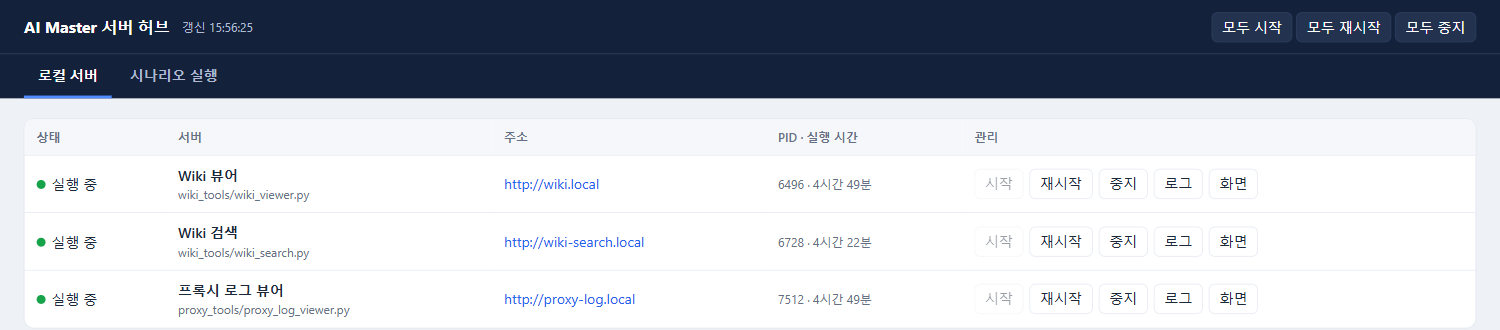
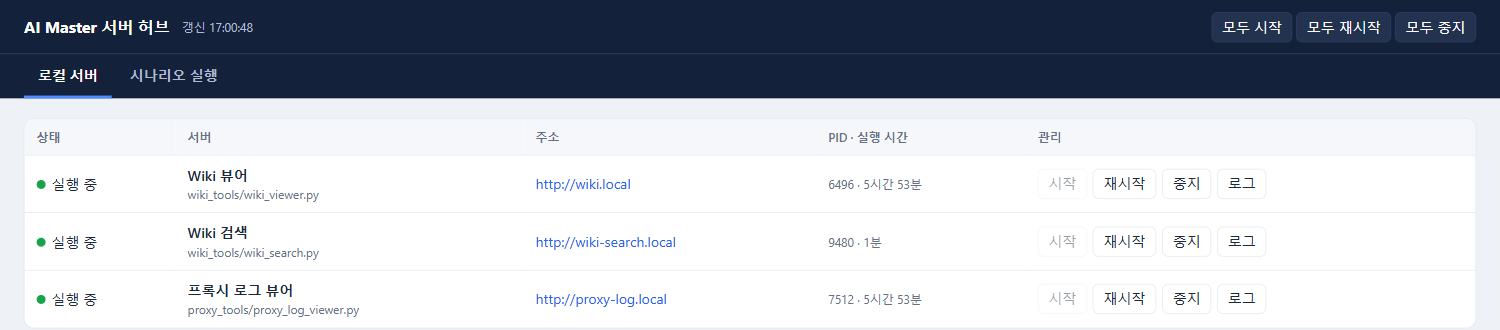
가이드 생성 중 진행 로그, 허브에서 보고 있는 로그 버튼 표시, 화면 버튼 제거
- common/trace.py: heartbeat() 추가. 오래 걸리는 노드가 도는 동안 5초마다 '↻ … 진행 중' 줄을 남김
- wiki_search.py: llm_generate 동안 진행 줄(LLM 응답 기다리는 중 / 받은 글자 수)
- 허브: 보고 있는 로그의 '로그' 버튼을 연한 파랑으로 표시(로컬 서버 탭·시나리오 실행 탭),
  '화면' 버튼 제거(주소를 누르면 새 창으로 열림)
- README·허브 캡처 갱신

diff --git a/hub.py b/hub.py
@@ -421,7 +421,8 @@ tr.sel td{background:var(--soft)}
 .title{font-weight:600}.script{color:var(--muted);font-size:12px}a{color:var(--blue);text-decoration:none}a:hover{text-decoration:underline}
 .warn{color:var(--bad);font-size:12px}.muted{color:var(--muted);font-size:12px}.acts{display:flex;gap:6px;flex-wrap:wrap}
 .tabs{display:flex;gap:4px;align-items:center;padding:8px 12px;border-bottom:1px solid var(--line);background:var(--soft)}
-.tabs button.on{background:var(--blue);border-color:var(--blue);color:#fff}.tabs .name{margin-left:8px;font-weight:600}
+.tabs button.on{background:var(--blue);border-color:var(--blue);color:#fff}
+button.logon{background:color-mix(in srgb,var(--blue) 14%,var(--panel));border-color:var(--blue);color:var(--blue);font-weight:700;box-shadow:inset 0 0 0 1px var(--blue)}.tabs .name{margin-left:8px;font-weight:600}
 pre{margin:0;background:var(--code);color:var(--codeink);padding:12px 14px;height:420px;overflow:auto;font:12px/1.5 Consolas,monospace;white-space:pre-wrap}
 .err{color:var(--bad);padding:12px}
 [hidden]{display:none!important}
@@ -451,13 +452,13 @@ nav.maintabs button.on{color:#fff;border-bottom-color:#4f8cff}
 <div class="scgrid">
 <div class="card sc"><h2>시나리오 1 · 프록시 설정 가이드 자동 생성</h2>
 <p>Wiki 검색 화면을 새 창으로 엽니다. 질의 입력·유형 선택·미리보기·수정 요청·Wiki 등록은 그 화면에서 합니다.</p>
-<div class="row"><button class="main" id="s1run" onclick="runS1()">실행 (Wiki 검색 화면 열기)</button><button onclick="showLog('wiki-search','시나리오 1 · Wiki 검색 서버 로그')">로그</button>
+<div class="row"><button class="main" id="s1run" onclick="runS1()">실행 (Wiki 검색 화면 열기)</button><button class="slog" data-key="wiki-search" onclick="showLog('wiki-search','시나리오 1 · Wiki 검색 서버 로그')">로그</button>
 <span class="jobstate" id="s1state"></span></div></div>
 <div class="card sc"><h2>시나리오 2 · 프록시 현황 Wiki 현행화</h2>
 <p>Wiki 현황 문서와 Azure VM을 비교하고, 차이가 있으면 Teams 승인 후 Task·Wiki를 반영합니다. 승인 카드는 Teams 일반 채널로 갑니다.</p>
 <div class="row"><button id="s2setup" onclick="runJob('scenario2-setup')" title="test/scenario2/setup_env.py: 꺼진 Proxy VM을 켜고, 테스트 문서를 '현행화 전'으로 만들고 정답을 다시 만든다">테스트 환경 준비</button>
 <button class="main" id="s2run" onclick="runJob('scenario2')">실행</button>
-<button onclick="showLog('scenario2','시나리오 2 로그')">로그</button></div>
+<button class="slog" data-key="scenario2" onclick="showLog('scenario2','시나리오 2 로그')">로그</button></div>
 <div class="jobstate" id="s2state"></div></div>
 <div class="card sc"><h2>시나리오 3 · 장애 감지 및 자동 조치</h2>
 <p class="muted">준비 중입니다.</p></div>
@@ -490,7 +491,7 @@ function render(){
 <td><div class="acts"><button ${busy||n?'disabled':''} onclick="act('${s.key}','start')">시작</button>
 <button ${busy?'disabled':''} onclick="act('${s.key}','restart')">재시작</button>
 <button ${busy||!n?'disabled':''} onclick="act('${s.key}','stop')">중지</button>
-<button onclick="pick('${s.key}')">로그</button><button ${s.state!=='running'?'disabled':''} onclick="window.open('${esc(s.url)}','_blank','noopener')" title="새 창으로 열기">화면</button></div></td></tr>`}).join('')}
+<button class="${s.key===selected?'logon':''}" onclick="pick('${s.key}')">로그</button></div></td></tr>`}).join('')}
 async function refresh(){
   try{const r=await fetch('/api/status');const d=await r.json();if(d.error)throw new Error(d.error);
     servers=d.servers;document.getElementById('time').textContent='갱신 '+d.time.slice(11);
@@ -498,7 +499,7 @@ async function refresh(){
   catch(e){const el=document.getElementById('err');el.hidden=false;el.textContent='상태를 읽지 못했습니다: '+e.message}}
 async function loadLog(){const pre=document.getElementById('log');const atEnd=pre.scrollTop+pre.clientHeight>=pre.scrollHeight-20;
   pre.textContent=await (await fetch('/api/log?key='+encodeURIComponent(selected))).text();if(atEnd)pre.scrollTop=pre.scrollHeight}
-// 하단 패널은 로그만 보여 준다. 서버 화면은 '화면' 버튼으로 새 창에서 연다.
+// 하단 패널은 로그만 보여 준다. 서버 화면은 주소를 눌러 새 창에서 연다. 보고 있는 로그의 버튼은 파랗게 표시한다.
 function pick(key){const s=servers.find(x=>x.key===key);const title=s&&s.title;if(!title)return;selected=key;
   document.getElementById('panel').hidden=false;document.getElementById('pname').textContent=title;
   document.getElementById('phint').textContent='data/logs/'+key+'.log';loadLog();render()}
@@ -524,7 +525,7 @@ async function refreshJobs(){try{jobs=await (await fetch('/api/jobs')).json()}ca
   const ws=wikiSearch(),ok=ws&&ws.state==='running';document.getElementById('s1run').disabled=!ok;
   document.getElementById('s1state').innerHTML=ok?`<span class="muted">${esc(ws.url)}</span>`:'<span class="jobstate fail">Wiki 검색 서버가 꺼져 있습니다. 로컬 서버 탭에서 시작하세요.</span>';
   if(slogKey)loadSLog()}
-function showLog(key,title){slogKey=key;document.getElementById('sname').textContent=title;document.getElementById('shint').textContent='data/logs/'+key+'.log';loadSLog()}
+function showLog(key,title){slogKey=key;document.querySelectorAll('button.slog').forEach(b=>b.classList.toggle('logon',b.dataset.key===key));document.getElementById('sname').textContent=title;document.getElementById('shint').textContent='data/logs/'+key+'.log';loadSLog()}
 async function loadSLog(){const pre=document.getElementById('slog');const atEnd=pre.scrollTop+pre.clientHeight>=pre.scrollHeight-20;
   pre.textContent=await (await fetch('/api/log?key='+encodeURIComponent(slogKey))).text();if(atEnd)pre.scrollTop=pre.scrollHeight}
 // 로그 창은 화면 아래 끝까지만 늘려 페이지 전체 스크롤이 생기지 않게 한다.

diff --git a/wiki_tools/wiki_search.py b/wiki_tools/wiki_search.py
@@ -32,7 +32,7 @@ from urllib.parse import quote, urlparse
 sys.path.insert(0, str(Path(__file__).resolve().parents[1]))  # 프로젝트 루트(common 패키지)
 from common.paths import DATA_DIR, ENV_FILE, WIKI_REPO  # noqa: E402
 from common.server import local_server, open_chrome, site_url  # noqa: E402,F401  (다른 도구가 여기서 가져다 쓰던 이름 유지)
-from common.trace import span, trace  # noqa: E402
+from common.trace import heartbeat, span, trace  # noqa: E402
 
 ROOT = WIKI_REPO.resolve()
 CACHE = DATA_DIR / "wiki_search_cache.json"
@@ -905,6 +905,8 @@ def _llm_run(client, system, prompt, diagrams, sources, web, s, context=None):
             n_lines += done.count("\n")
             yield unbox(DIAGRAM_TOKEN.sub(lambda m: restore(diagrams, m), done))
 
+    # 게이트웨이가 응답을 모아 한 번에 보내므로 그동안 로그가 멈춰 보인다 → 5초마다 진행 줄을 남긴다
+    stop_beat = heartbeat(s, lambda: f"받은 글자 {len(text):,}" if text else "LLM 응답 기다리는 중")
     try:
         if hasattr(client, "chat"):  # OpenAI / Azure OpenAI 게이트웨이
             stream = client.chat.completions.create(
@@ -956,6 +958,8 @@ def _llm_run(client, system, prompt, diagrams, sources, web, s, context=None):
     except Exception as exc:
         s.fail(f"LLM 호출 실패 → 템플릿 사용: {type(exc).__name__}: {exc}")
         return None
+    finally:
+        stop_beat()
 
 
 BOX_NOTE = re.compile(r"[ 	]*\(mermaid 다이어그램:.*$", re.M)

diff --git a/common/trace.py b/common/trace.py
@@ -101,6 +101,23 @@ class Trace:
         print(f"{datetime.now():%H:%M:%S} [{self.id}] {text}", flush=True)
 
 
+def heartbeat(s, detail=None, every: float = 5.0):
+    """오래 걸리는 노드가 도는 동안 every 초마다 '진행 중' 줄을 남긴다(로그가 멈춘 것처럼 보이지 않게).
+    돌려준 함수를 부르면 멈춘다. 트레이스 밖(_NullSpan)이면 아무것도 하지 않는다."""
+    if not isinstance(s, Span):
+        return lambda: None
+    stop = threading.Event()
+
+    def beat():
+        while not stop.wait(every):
+            extra = detail() if detail else ""
+            s.trace.log(f"↻ {'  ' * s.depth}{s.no:02d} {s.name:<16}{time.perf_counter() - s.start:>7.0f}s  진행 중"
+                        + (f" · {extra}" if extra else ""))
+
+    threading.Thread(target=beat, daemon=True, name=f"heartbeat-{s.name}").start()
+    return stop.set
+
+
 @contextmanager
 def span(name: str, **attrs):
     t = _current.get()

diff --git a/README.md b/README.md
@@ -500,10 +500,10 @@ http://ai-master.local 한 화면에서 ai-master 서버 3개(Wiki 뷰어, Wiki 
 
 | 탭 | 내용 |
 |---|---|
-| 로컬 서버 | 서버 표(상태·PID·가동 시간, 시작·중지·재시작·로그·화면)와 로그 창 |
+| 로컬 서버 | 서버 표(상태·주소·PID·가동 시간, 시작·중지·재시작·로그)와 로그 창. 주소를 누르면 서버 화면이 새 창으로 열림 |
 | 시나리오 실행 | **시나리오 1**: 실행하면 Wiki 검색 화면을 새 창으로 엶(질의 입력부터 그 화면에서), 로그는 `wiki-search.log`<br/>**시나리오 2**: "테스트 환경 준비"(`setup_env.py`: 꺼진 Proxy VM만 켜고 표·정답을 다시 만듦) 후 "실행", 실행 상태·PID·종료 코드와 `scenario2.log` 실시간 표시. 실행 중에는 다시 실행할 수 없음 |
 
-`http://ai-master.local/#scenarios`로 열면 시나리오 실행 탭이 바로 열립니다. 서버 화면은 "화면" 버튼으로 새 창에서 엽니다. 사용량·비용 모니터는 ai-monitor의 허브(http://ai-monitor.local)에서 관리합니다.
+`http://ai-master.local/#scenarios`로 열면 시나리오 실행 탭이 바로 열립니다. 서버 화면은 표의 주소를 눌러 새 창에서 엽니다. 지금 보고 있는 로그의 "로그" 버튼은 연한 파랑으로 표시됩니다(로컬 서버 탭·시나리오 실행 탭 모두). 사용량·비용 모니터는 ai-monitor의 허브(http://ai-monitor.local)에서 관리합니다.
 
 ```powershell
 python hub.py                # 허브를 켜고 크롬으로 연다 (이미 떠 있는 허브는 끄고 새로 띄움)
@@ -631,12 +631,15 @@ flowchart TD
 01:38:58 [07902dac]   02 hybrid_search        321ms  docs=1026 results=20 top=6.37 top_doc=…
 01:38:58 [07902dac]   04 select_sources         3ms  sources=15 statements=35 top3=…
 01:38:58 [07902dac]   05 web_decision         385ms  best_sim=0.601 variant=포워드 프록시 variant_sim=0.499 result=위키만 사용
+01:39:03 [07902dac] ↻ 07 llm_generate          5s  진행 중 · LLM 응답 기다리는 중
+01:39:08 [07902dac] ↻ 07 llm_generate         10s  진행 중 · LLM 응답 기다리는 중
+…
 01:39:55 [07902dac]   07 llm_generate      57,255ms  model=gpt-6.1-sol prompt_tokens=8364 completion_tokens=4957 reasoning_tokens=205 first_line_ms=56911 …
 01:39:55 [07902dac] ■ guide/stream ok 58.1s | llm_generate 57.3s · web_decision 0.4s … | mode=llm model=gpt-6.1-sol
 ```
 
 - 노드: `refresh_index` → `analyze`(오타 교정 포함) → `hybrid_search`(안에 `embed_query`) → `select_sources` → `chunk_select`(조각 수·줄어든 글자 수·중복) → `web_decision` → `web_search`(검색어·결과·버린 수) → `llm_generate`(토큰·첫 줄 시각) 또는 `template`.
-- 줄 앞 표시: `✗` 실패(이유는 `error=`), `…` 연결이 끊겨 중단(cancelled). 번호는 시작 순서이고, 안쪽 노드가 먼저 끝나 먼저 찍힌다.
+- 줄 앞 표시: `↻` 진행 중(LLM 응답을 기다리는 동안 5초마다, 게이트웨이가 응답을 모아 한 번에 보내므로 그사이 로그가 멈춘 것처럼 보이지 않게), `✗` 실패(이유는 `error=`), `…` 연결이 끊겨 중단(cancelled). 번호는 시작 순서이고, 안쪽 노드가 먼저 끝나 먼저 찍힌다.
 - JSONL에는 같은 내용이 요청당 한 줄(노드별 시작 오프셋·소요 시간·속성)로 들어갑니다. 질의 원문이 들어가므로 `data/`(Git 제외)에만 둡니다.
 
 ### 6.2 Squid 정책 변경 → Task·Wiki 반영 (squid_policy_publish.py)
